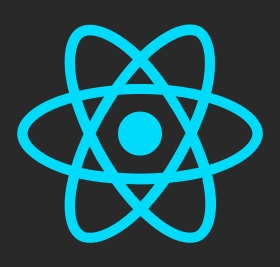
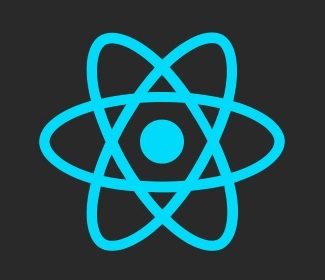
Ajuste do ícone do react; Página da tag React

Changed region(s): [[0.0571, 0.0899, 0.9429, 0.9288], [0.4857, 0.5693, 0.5429, 0.5993], [0.5429, 0.839, 0.5714, 0.8689]]

diff --git a/posts-categoria/react.html b/posts-categoria/react.html
@@ -1,0 +1,7 @@
+---
+layout: post-list
+title: Posts sobre React
+---
+
+
+{% include posts-por-tag.html content="React" %} 
